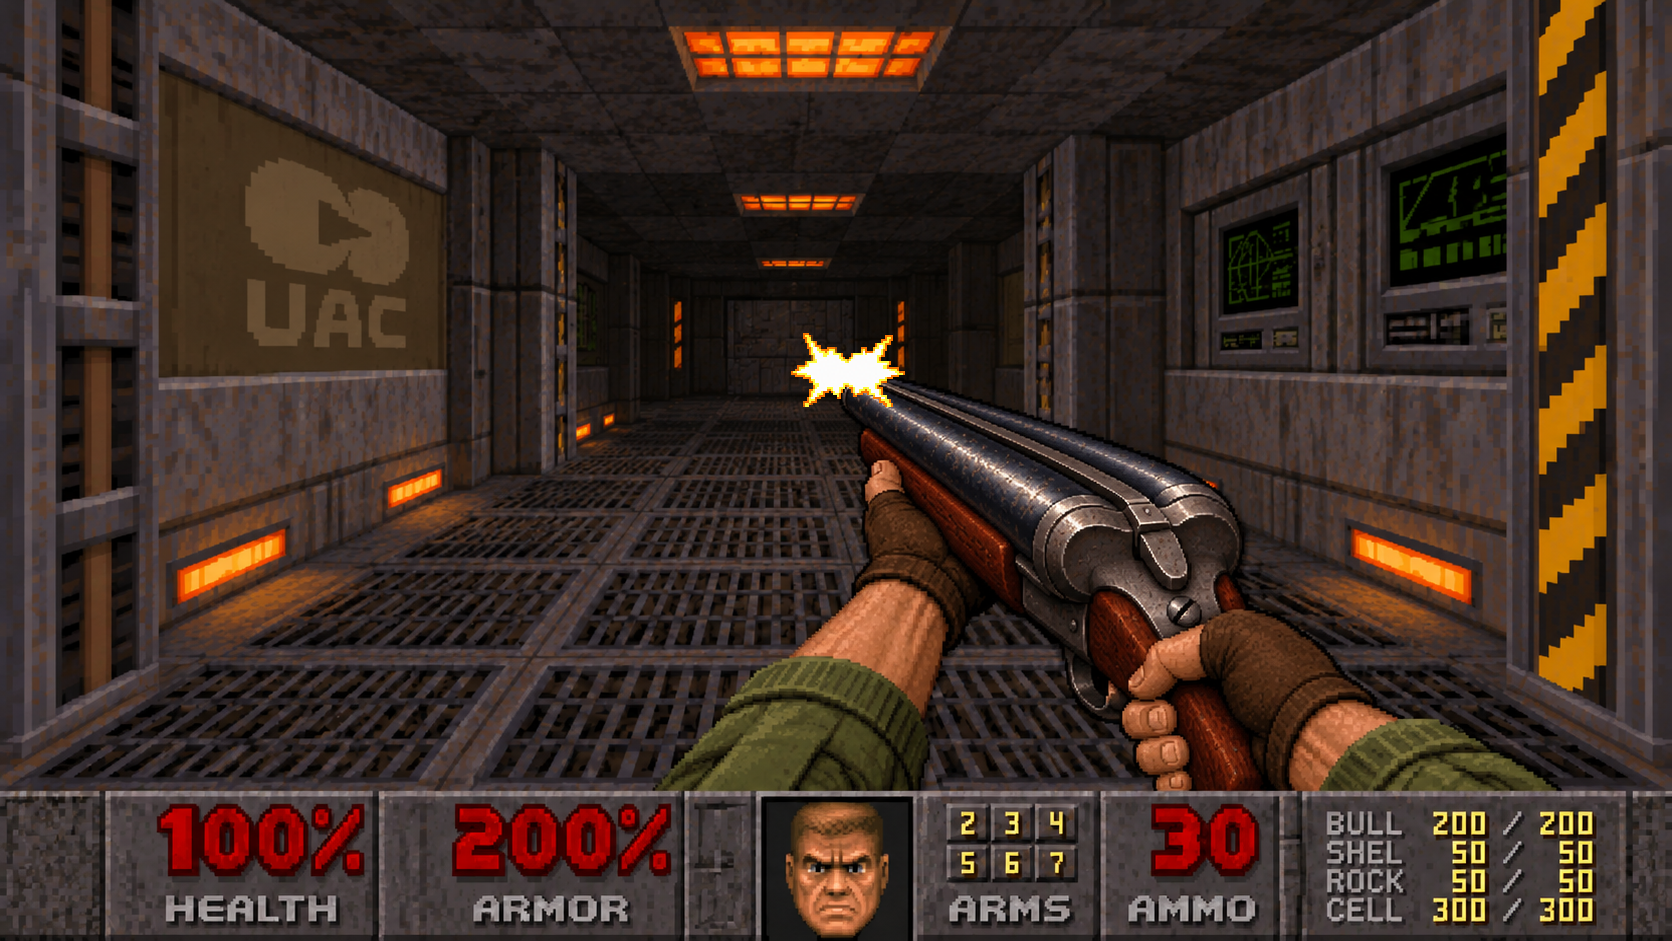
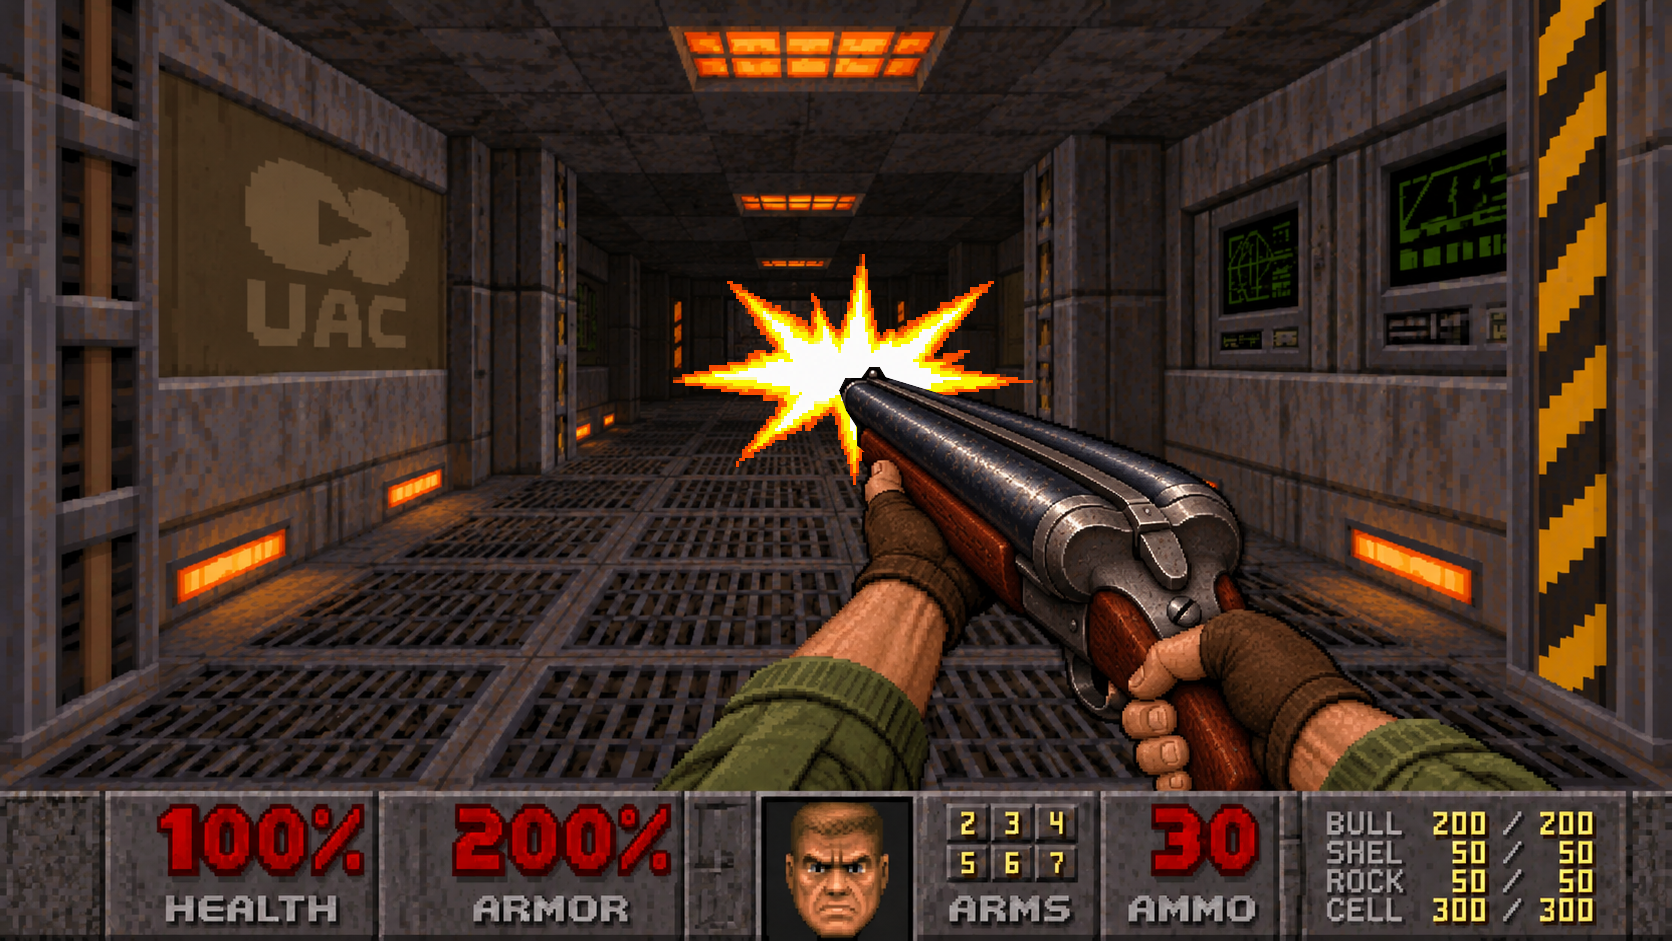
EOD 0.8.18: final Coach Gun firing frame; Carbine flash alternates two painted stars

Changed region(s): [[0.4043, 0.2774, 0.622, 0.4931]]

diff --git a/EOD/editor.html b/EOD/editor.html
@@ -197,7 +197,7 @@ a.brand{color:var(--text);text-decoration:none}
 <script id="nsde-main">
 'use strict';
 /* EOD · Editor of Doom (engine from No Shit Doom Editor) — Pulse Labs Studio */
-const VERSION = '0.8.17', VC = 37;
+const VERSION = '0.8.18', VC = 38;
 const ORIGINAL_HTML = '<!DOCTYPE html>\n' + document.documentElement.outerHTML;
 const $ = s => document.querySelector(s);
 const clamp = (v, a, b) => v < a ? a : v > b ? b : v;
@@ -4212,7 +4212,8 @@ function drawPaintedWeapon(g, W, H, art, d, bx, by) {
   // muzzle flash on the ready frame
   if (kick > 0.45 && f === art.frames[0] && A.muzzle && A.fireFrame == null) {
     const mx = -dw / 2 + A.muzzle[0] * dw, my = -dh + A.muzzle[1] * dh, r = (A.id === 'coach' ? 70 : 46) * sp * (0.7 + 0.5 * Math.random());
-    const fi = A.flash && ARTL.img.get(A.flash);
+    if (p.flashSeed == null) p.flashSeed = Math.random();
+    const fi = (A.flashAlt && p.flashSeed > 0.5 && ARTL.img.get(A.flashAlt)) || (A.flash && ARTL.img.get(A.flash));
     if (fi) { // the painted star burst, a little different every shot
       if (p.flashSeed == null) p.flashSeed = Math.random(); const fw = (A.flashW || 90) * sp * (0.85 + 0.3 * p.flashSeed), fh = fw * fi.height / fi.width;
       g.save(); g.translate(mx, my); g.rotate((p.flashSeed - 0.5) * 0.6); g.imageSmoothingEnabled = false; g.drawImage(fi, -fw / 2, -fh / 2, fw, fh); g.restore();
@@ -4778,7 +4779,7 @@ function artFilesFor(map) {
   return [...new Set(f)];
 }
 function monFiles(id) { const a = artMon(id); if (a && a.rots) { const o = []; for (let i = 1; i <= a.rots; i++) o.push('m_' + id + '_r' + i + '.png'); for (let i = 1; i <= (a.death || 0); i++) o.push('m_' + id + '_d' + i + '.png'); return o; } return ['m_' + id + '.png']; }
-function wepFiles(id) { const a = artWep(id); if (!a) return []; return [...(a.frames || []), a.pick, a.proj, a.flash, a.smoke].filter(Boolean); }
+function wepFiles(id) { const a = artWep(id); if (!a) return []; return [...(a.frames || []), a.pick, a.proj, a.flash, a.flashAlt, a.smoke].filter(Boolean); }
 function artPreload() {
   // maps that use Forge art carry their own copy (art + its description) so other players see it
   for (const d of [...Object.values(M.mon || {}), ...Object.values(M.wep || {})]) { const id = d.look && d.look.art; if (!id || !ARTL.forgeIds.has(id)) continue; const meta = artMon(id) || artWep(id); if (!meta) continue; M.artMeta = M.artMeta || {}; if (!M.artMeta[id]) M.artMeta[id] = Object.assign({}, meta, { kind: d.hp != null ? 'monster' : 'weapon' }); M.artData = M.artData || {}; for (const f of (meta.kind === 'weapon' || d.hp == null ? wepFiles(id) : monFiles(id))) if (ARTL.forge[f] && !M.artData[f]) M.artData[f] = ARTL.forge[f]; }
@@ -4859,7 +4860,7 @@ function artWepFrames(d, id) {
   if (fr.some(x => !x) || !pk || (a.proj && !pj)) return null;
   if (a.painted) { // full-color hand-painted frames (cut by tools/cut_weapon.py): drawn as they are, placed where the artist put them
     const frames = fr.map((im, i) => ({ painted: true, im, w: im.width, h: im.height, place: (a.place || [])[i] || { dx: 0, dy: 0 } }));
-    if (a.flash) artImg(a.flash); if (a.smoke) artImg(a.smoke); // start loading the muzzle flash picture
+    if (a.flash) artImg(a.flash); if (a.smoke) artImg(a.smoke); if (a.flashAlt) artImg(a.flashAlt); // start loading the muzzle flash picture
     const pp = artPixels(pk, L, Math.min(1, 72 / pk.width), false);
     return { painted: true, meta: a, basis: a.basis || 320, frames, idle: frames[0], fire: frames[0], pick: clayToSprite(pp, pp.w >> 1, pp.h, { dither: 2, rim: false, contrast: 1.0 }) };
   }

diff --git a/EOD/engine/src/20_artlib.js b/EOD/engine/src/20_artlib.js
@@ -48,7 +48,7 @@ function artFilesFor(map) {
   return [...new Set(f)];
 }
 function monFiles(id) { const a = artMon(id); if (a && a.rots) { const o = []; for (let i = 1; i <= a.rots; i++) o.push('m_' + id + '_r' + i + '.png'); for (let i = 1; i <= (a.death || 0); i++) o.push('m_' + id + '_d' + i + '.png'); return o; } return ['m_' + id + '.png']; }
-function wepFiles(id) { const a = artWep(id); if (!a) return []; return [...(a.frames || []), a.pick, a.proj, a.flash, a.smoke].filter(Boolean); }
+function wepFiles(id) { const a = artWep(id); if (!a) return []; return [...(a.frames || []), a.pick, a.proj, a.flash, a.flashAlt, a.smoke].filter(Boolean); }
 function artPreload() {
   // maps that use Forge art carry their own copy (art + its description) so other players see it
   for (const d of [...Object.values(M.mon || {}), ...Object.values(M.wep || {})]) { const id = d.look && d.look.art; if (!id || !ARTL.forgeIds.has(id)) continue; const meta = artMon(id) || artWep(id); if (!meta) continue; M.artMeta = M.artMeta || {}; if (!M.artMeta[id]) M.artMeta[id] = Object.assign({}, meta, { kind: d.hp != null ? 'monster' : 'weapon' }); M.artData = M.artData || {}; for (const f of (meta.kind === 'weapon' || d.hp == null ? wepFiles(id) : monFiles(id))) if (ARTL.forge[f] && !M.artData[f]) M.artData[f] = ARTL.forge[f]; }
@@ -129,7 +129,7 @@ function artWepFrames(d, id) {
   if (fr.some(x => !x) || !pk || (a.proj && !pj)) return null;
   if (a.painted) { // full-color hand-painted frames (cut by tools/cut_weapon.py): drawn as they are, placed where the artist put them
     const frames = fr.map((im, i) => ({ painted: true, im, w: im.width, h: im.height, place: (a.place || [])[i] || { dx: 0, dy: 0 } }));
-    if (a.flash) artImg(a.flash); if (a.smoke) artImg(a.smoke); // start loading the muzzle flash picture
+    if (a.flash) artImg(a.flash); if (a.smoke) artImg(a.smoke); if (a.flashAlt) artImg(a.flashAlt); // start loading the muzzle flash picture
     const pp = artPixels(pk, L, Math.min(1, 72 / pk.width), false);
     return { painted: true, meta: a, basis: a.basis || 320, frames, idle: frames[0], fire: frames[0], pick: clayToSprite(pp, pp.w >> 1, pp.h, { dither: 2, rim: false, contrast: 1.0 }) };
   }

diff --git a/EOD/engine/src/17_weapons.js b/EOD/engine/src/17_weapons.js
@@ -191,7 +191,8 @@ function drawPaintedWeapon(g, W, H, art, d, bx, by) {
   // muzzle flash on the ready frame
   if (kick > 0.45 && f === art.frames[0] && A.muzzle && A.fireFrame == null) {
     const mx = -dw / 2 + A.muzzle[0] * dw, my = -dh + A.muzzle[1] * dh, r = (A.id === 'coach' ? 70 : 46) * sp * (0.7 + 0.5 * Math.random());
-    const fi = A.flash && ARTL.img.get(A.flash);
+    if (p.flashSeed == null) p.flashSeed = Math.random();
+    const fi = (A.flashAlt && p.flashSeed > 0.5 && ARTL.img.get(A.flashAlt)) || (A.flash && ARTL.img.get(A.flash));
     if (fi) { // the painted star burst, a little different every shot
       if (p.flashSeed == null) p.flashSeed = Math.random(); const fw = (A.flashW || 90) * sp * (0.85 + 0.3 * p.flashSeed), fh = fw * fi.height / fi.width;
       g.save(); g.translate(mx, my); g.rotate((p.flashSeed - 0.5) * 0.6); g.imageSmoothingEnabled = false; g.drawImage(fi, -fw / 2, -fh / 2, fw, fh); g.restore();

diff --git a/EOD/engine/src/01_core.js b/EOD/engine/src/01_core.js
@@ -1,6 +1,6 @@
 'use strict';
 /* EOD · Editor of Doom (engine from No Shit Doom Editor) — Pulse Labs Studio */
-const VERSION = '0.8.17', VC = 37;
+const VERSION = '0.8.18', VC = 38;
 const ORIGINAL_HTML = '<!DOCTYPE html>\n' + document.documentElement.outerHTML;
 const $ = s => document.querySelector(s);
 const clamp = (v, a, b) => v < a ? a : v > b ? b : v;

diff --git a/EOD/assets/config.js b/EOD/assets/config.js
@@ -6,5 +6,5 @@ window.EOD_CONFIG = {
   SUPABASE_URL: '',
   SUPABASE_ANON_KEY: '',
   SITE_NAME: 'EOD · Editor of Doom',
-  VERSION: '0.8.17'
+  VERSION: '0.8.18'
 };

diff --git a/EOD/docs/HISTORY.md b/EOD/docs/HISTORY.md
@@ -113,3 +113,4 @@ The story of how EOD came to be, in the owner's words where possible.
 - Same evening James sent the empty corridor plate from GPT (frame 0) and a screenshot of a one-handed flip-shut frame → 0.8.15: the painted Coach Gun (ready, break open, loading) on the Sawed-Off and the painted Carbine (30-round magazine) are in the game.
 - James got a firing frame with long flames from GPT ("i said it was too flamey"), then a pixel star burst on its own and a firing frame with a short star burst → 0.8.16: the short-burst frame is the Coach Gun's firing frame, the star burst is the Carbine's muzzle flash. His reaction to the burst frame: "dunno about it" (easy to swap).
 - James sent the recoil frame (frame 3, with smoke), a pixel smoke wisp and a sheet of photo-style muzzle flashes → 0.8.17: recoil frame and smoke wisp in; the photo flash sheet held out (style and source).
+- James, on GPT's firing frame with a big spiky star burst: *"ok he landed it"* → 0.8.18: that's the Coach Gun's firing frame; its star also joins the Carbine's flashes.

diff --git a/EOD/docs/CHANGELOG.md b/EOD/docs/CHANGELOG.md
@@ -10,6 +10,10 @@
 - Built-in node builder so exported WADs also run in Chrome/Chocolate Doom
 - Everything queued for the engine in No Shit Doom Editor (curve/grid drawing, blockmap speed-up, grates)
 
+## v0.8.18 (vc38) — 2026-11-22 — the Coach Gun's final firing frame
+- **New firing frame:** the big spiky white-yellow star burst at both barrels ("ok he landed it") replaces the smaller burst.
+- **Carbine flash:** alternates between the two painted star bursts shot to shot.
+
 ## v0.8.17 (vc37) — 2026-11-22 — Coach Gun recoil frame and gun smoke
 - **Recoil frame:** after the flash, the painted recoil frame (barrels kicked up) shows while the gun settles.
 - **Gun smoke:** the painted smoke wisp curls up from the barrels after each shot and fades; the puffs from the open breech on reload are smaller.

diff --git a/EOD/docs/PROJECT_OVERVIEW.md b/EOD/docs/PROJECT_OVERVIEW.md
@@ -1,6 +1,6 @@
 # EOD · Editor of Doom — Project Overview
 
-**Owner:** Pulse Labs Studio · **Version:** 0.8.17 · **Started:** 2026-11-16 · **Repo:** `editor-of-doom` (GitHub Pages)
+**Owner:** Pulse Labs Studio · **Version:** 0.8.18 · **Started:** 2026-11-16 · **Repo:** `editor-of-doom` (GitHub Pages)
 
 ## Goal
 A free, open web home for classic Doom mapping: an editor that feels like Ultimate Doom Builder, one-tap play on any device and input (touch, keyboard+mouse, Xbox/standard controllers), and a community map library + forums. Nothing like this existed when we checked (Nov 2026): DoomScroll plays WADs in a browser but has no editor or accounts; web editors (JZBuilder, WAD.js) are prototypes; SnapMap (Doom 2016) had the share/remix loop but only inside that game.

diff --git a/docs/CHANGELOG.md b/docs/CHANGELOG.md
@@ -1,5 +1,8 @@
 # Changelog
 
+## v0.7.38 — 2026-11-22
+- EOD 0.8.18: final Coach Gun firing frame; Carbine flash alternates two painted stars.
+
 ## v0.7.37 — 2026-11-22
 - EOD 0.8.17: Coach Gun recoil frame and rising gun smoke.
 
